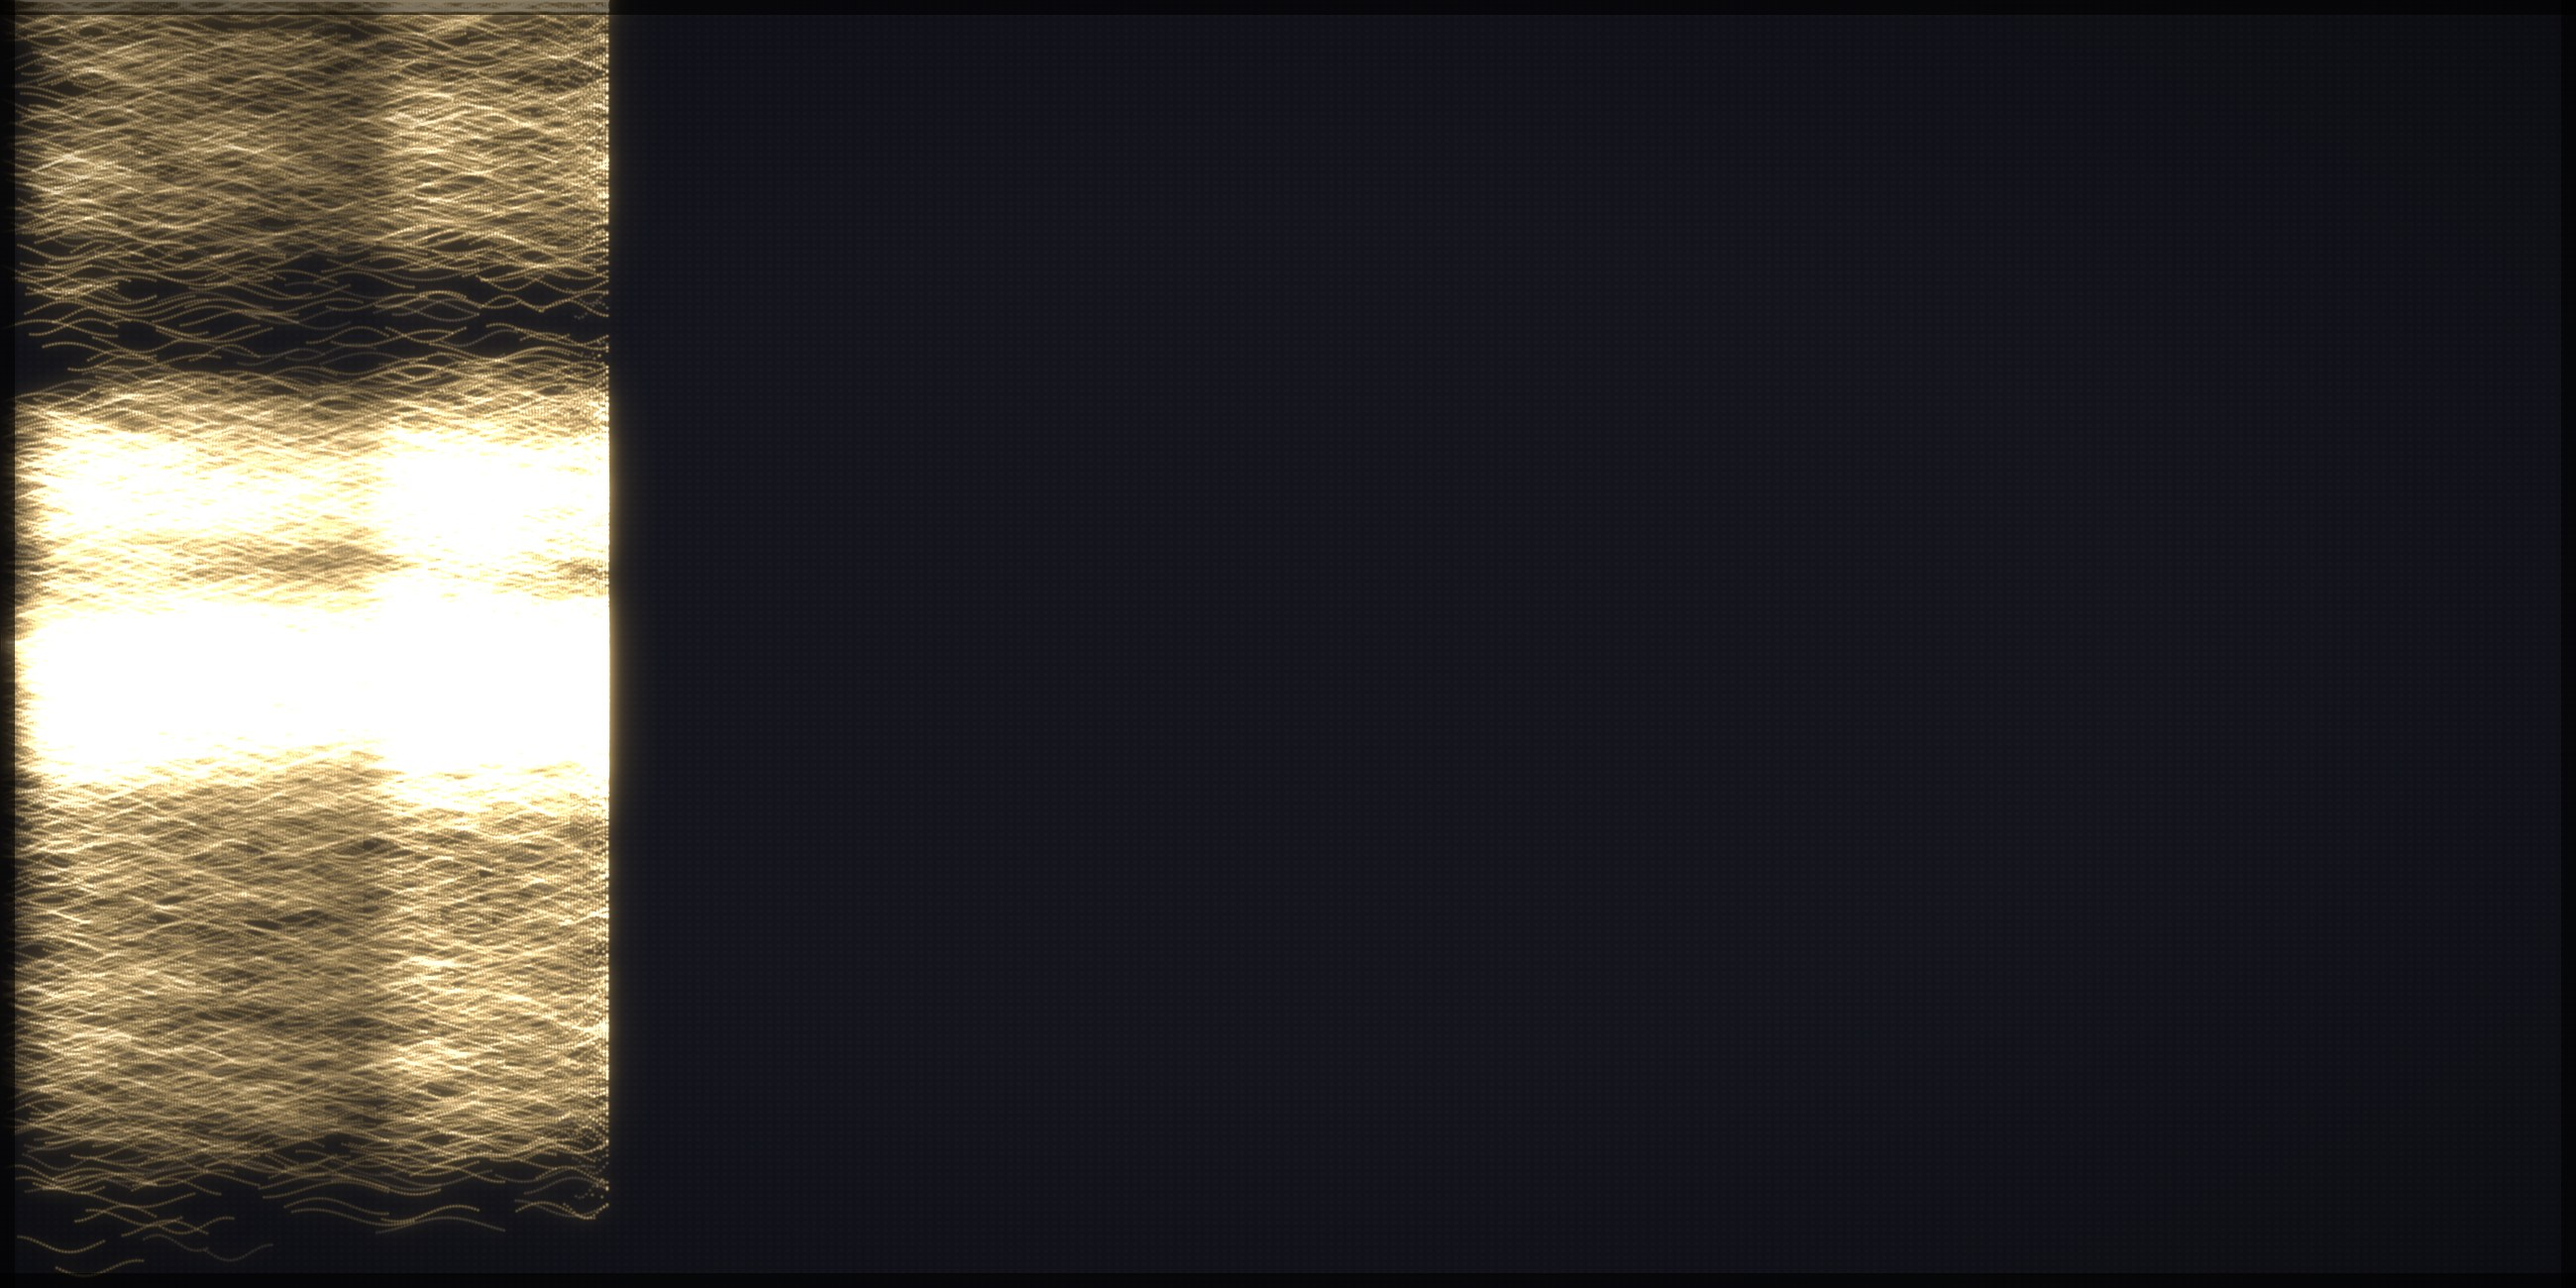
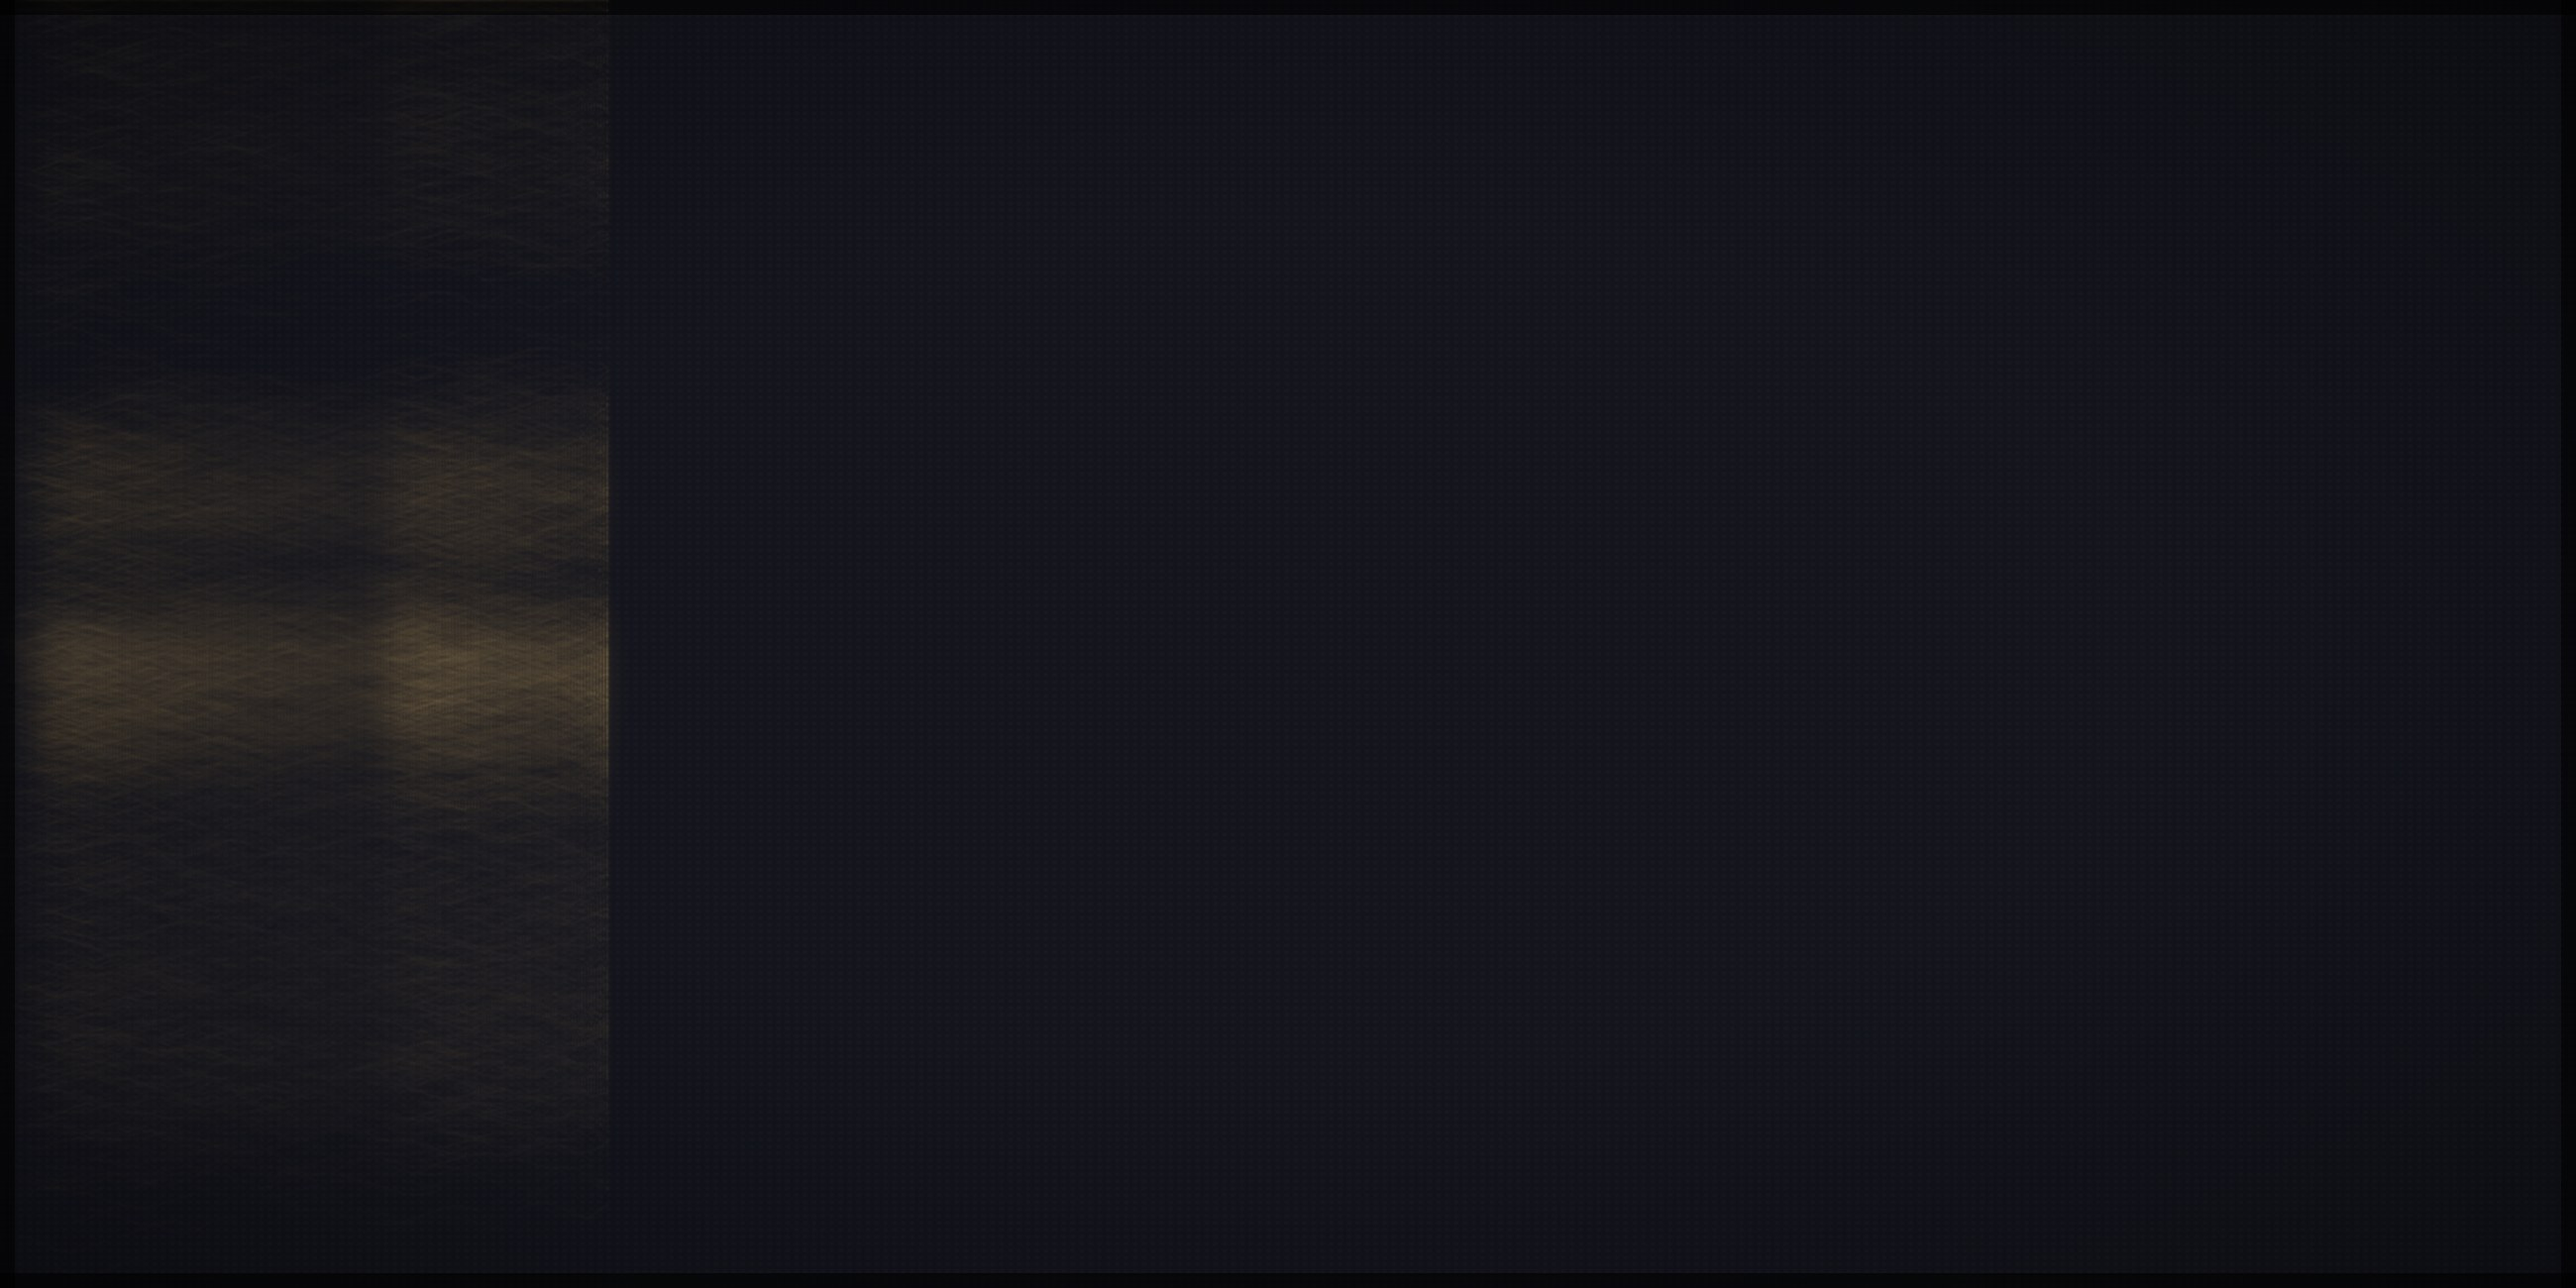
Proportional time-reveal: era frames share the climax display scale so light grows ∝ believers across the animation (early faint, modern blaze)

Changed region(s): [[0.0, 0.0, 0.2492, 0.9538]]

diff --git a/bake/render.py b/bake/render.py
@@ -46,6 +46,8 @@ class Tapestry:
         self.line_width = line_width
         self.believer_curve = None       # (years[], christians[]) — sets light ∝ believers
         self.col_energy = None           # measured per-column believer-light (verification)
+        self.fixed_scale = None          # shared display scale across frames (proportional reveal)
+        self.last_scale = None
 
     def set_believers(self, years, christians):
         self.believer_curve = (list(years), list(christians))
@@ -228,7 +230,8 @@ class Tapestry:
         # LINEAR display map: a SINGLE global scale (preserves every ratio, so the
         # believer-proportionality is untouched) chosen so the modern era blazes while
         # antiquity stays proportionally faint — the true "from one to billions".
-        scale = 3.2 / (np.percentile(lit, 99.0) + 1e-9)
+        scale = self.fixed_scale if self.fixed_scale else 3.2 / (np.percentile(lit, 99.0) + 1e-9)
+        self.last_scale = scale
         gold_v = np.clip(g * scale, 0, 1)
         gray_v = np.clip(gr * scale, 0, 1)
         dark_v = 1.0 - np.exp(-1.4 * self.dark_gain * dk)

diff --git a/bake/run_bake.py b/bake/run_bake.py
@@ -167,6 +167,7 @@ def main() -> int:
         for yr in ERA_YEARS:
             ft = make_renderer(fw, fh, render_params)
             ft.set_believers(*believers)
+            ft.fixed_scale = tap.last_scale       # shared scale -> the reveal grows proportionally
             ft.render_forest(forest, reveal_x=S.x_of_year(yr))
             fp = os.path.join(fdir, f"frame_{yr}.jpg")
             ft.save(fp)
